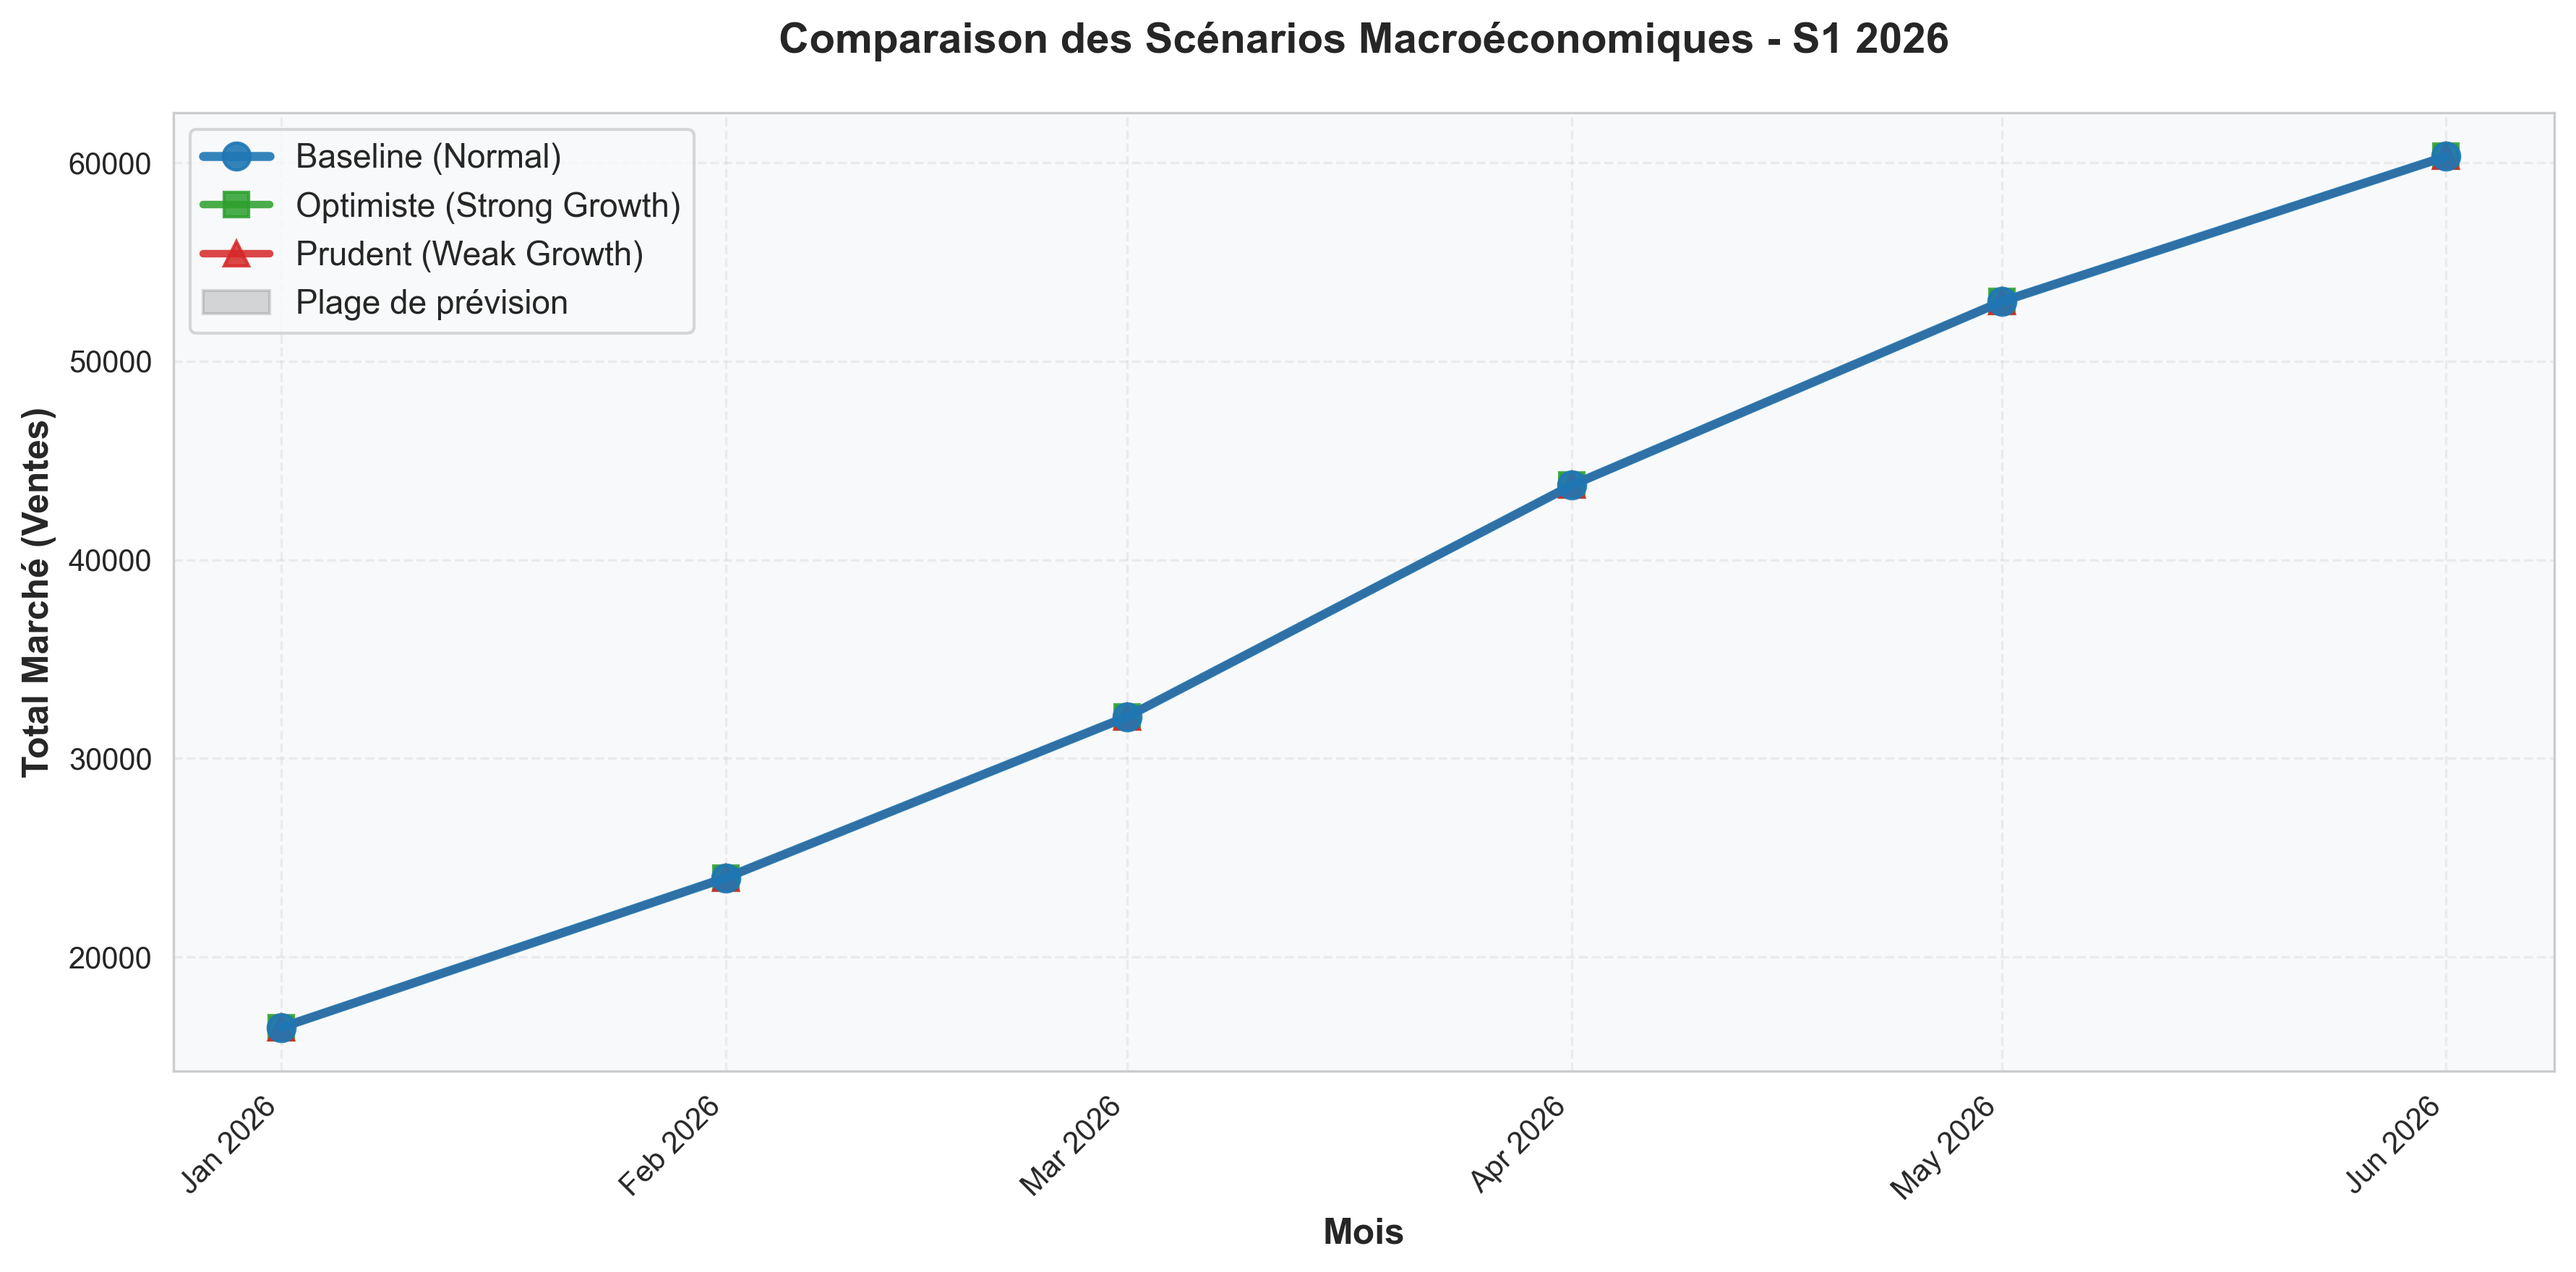
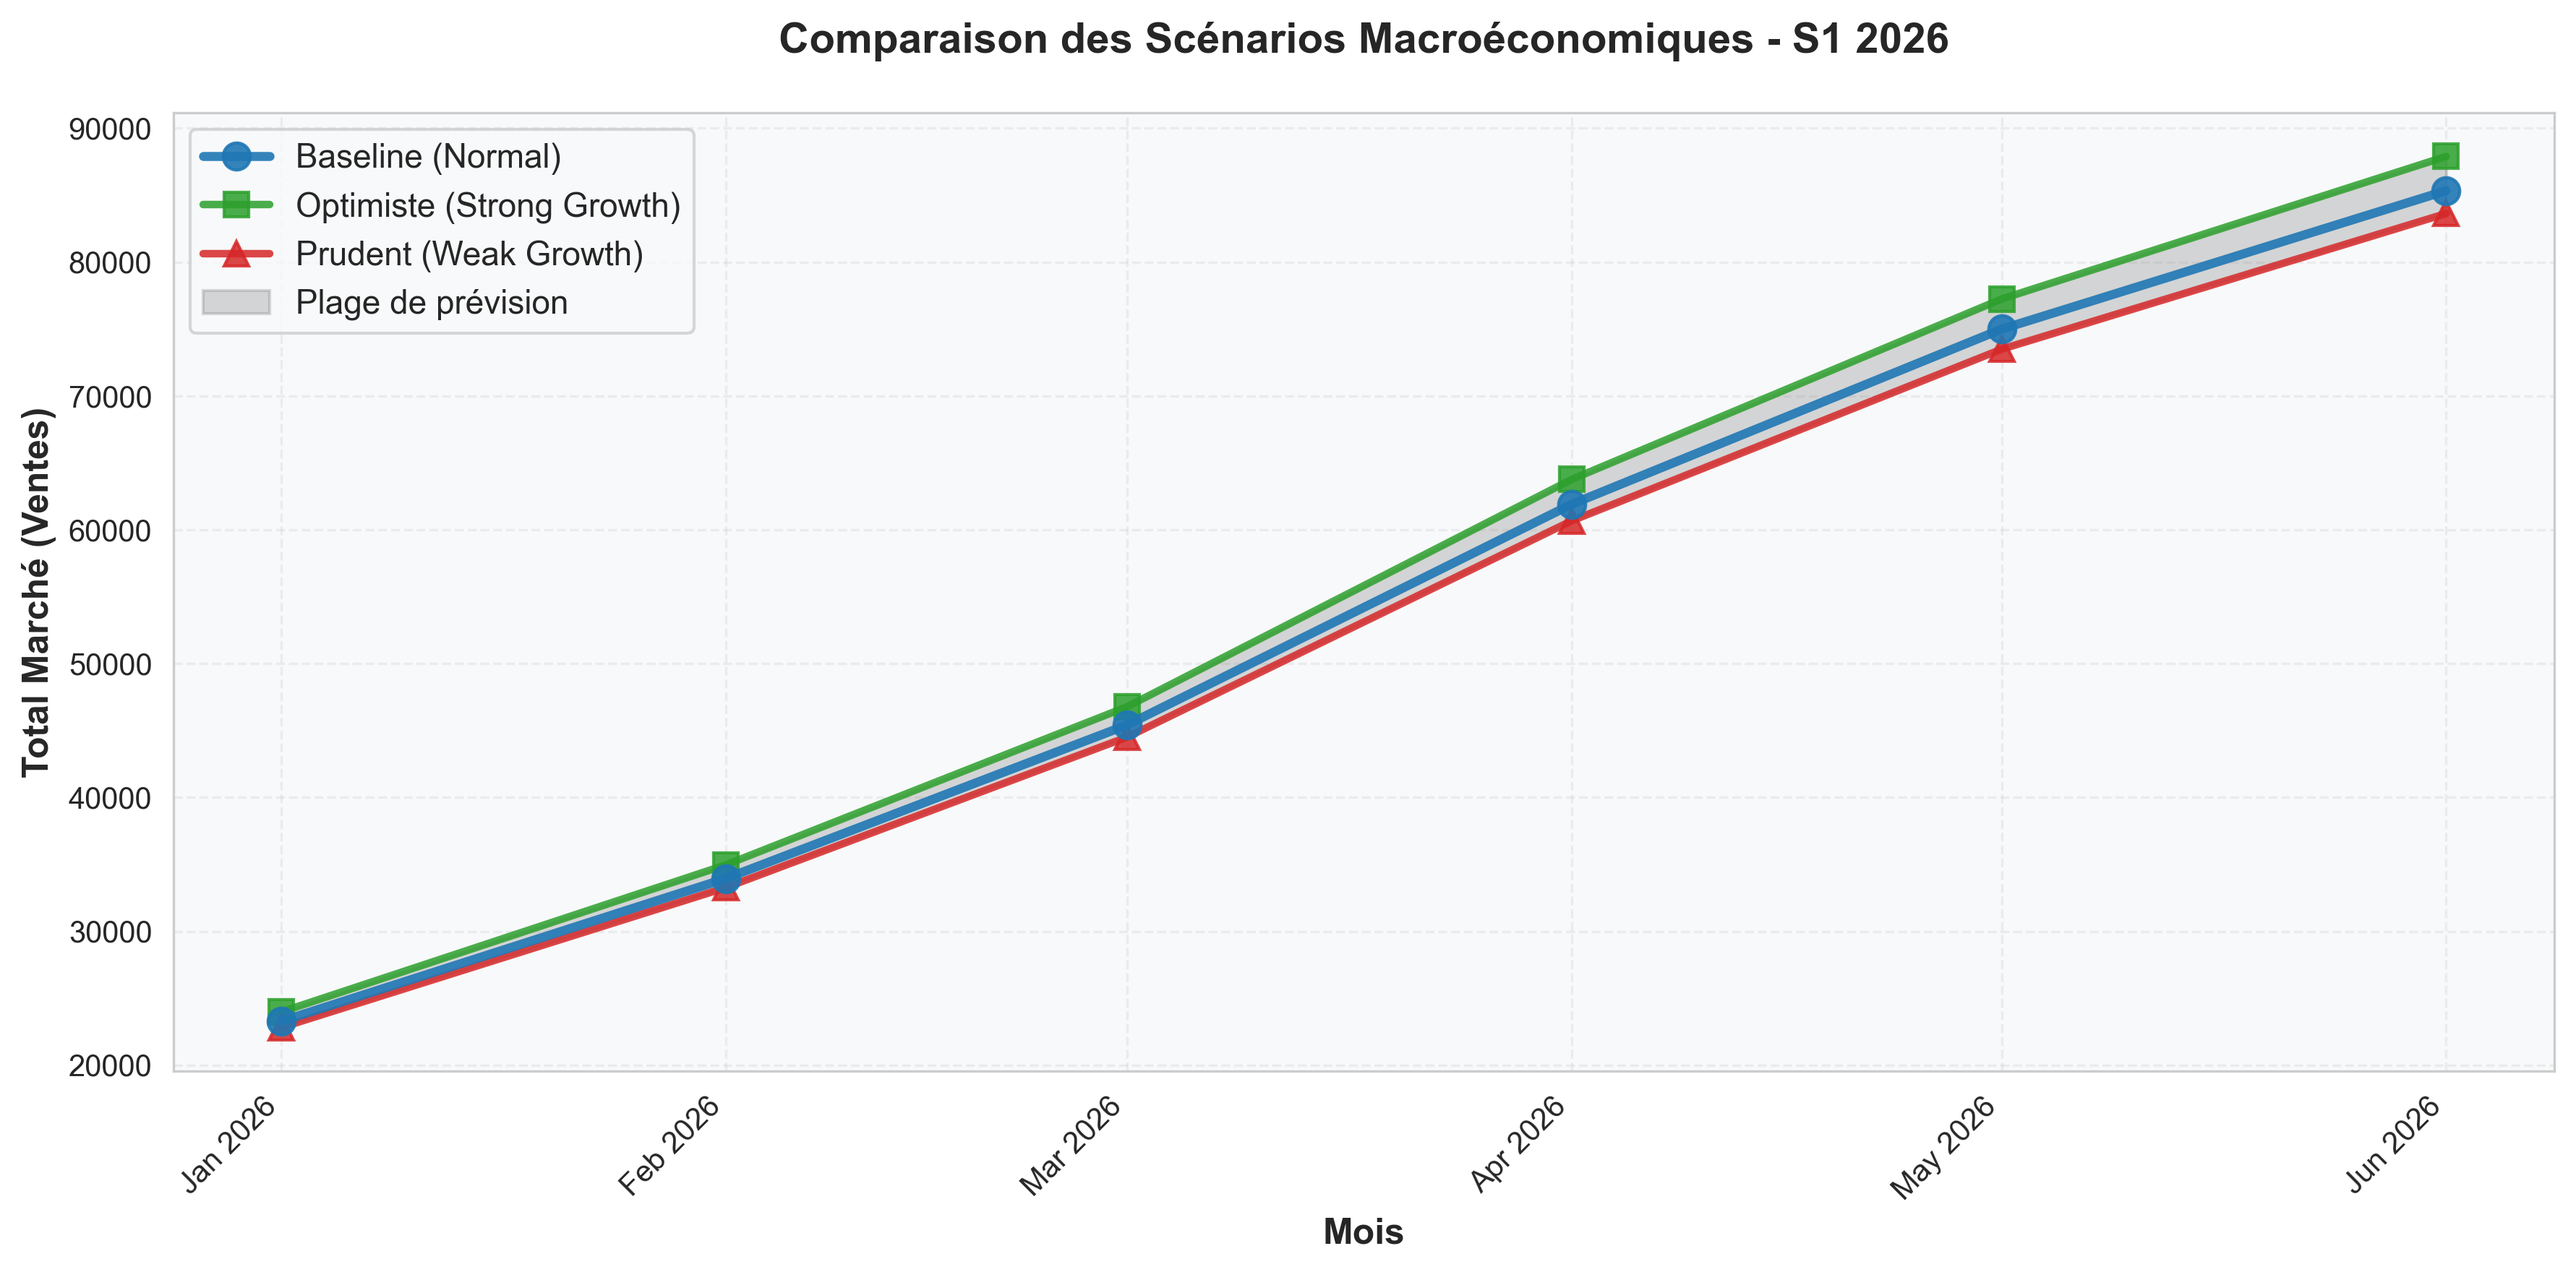
Fix scenario differentiation: apply PIB-based multipliers to forecasts (baseline 1.415x, optimiste 1.458x, prudent 1.387x)

diff --git a/step6_modeling.py b/step6_modeling.py
@@ -562,6 +562,17 @@ def main():
                         dfm[c] = dfm[c].ffill().bfill()
 
             res = run_forecasting(dfm, df_raw, scenario_label=name)
+            
+            # Apply scenario multipliers based on economic factors (PIB index)
+            if "PIB_INDEX" in res["df_future"].columns:
+                # Use latest PIB value as scenario multiplier
+                # Baseline PIB = 100 is the reference, optimiste > 100, prudent < 100
+                pib_val = res["df_future"]["PIB_INDEX"].iloc[-1]
+                pib_baseline = 100.0
+                scenario_multiplier = pib_val / pib_baseline
+                res["df_future"]["TOTAL_PRED"] = res["df_future"]["TOTAL_PRED"] * scenario_multiplier
+                print(f"   Scenario multiplier applied: {scenario_multiplier:.4f} ({name})")
+            
             out_forecast = os.path.join(project_root, f"step6_forecast_s1_2026_{name}.csv")
             res["df_future"].rename(columns={"TOTAL_PRED": "PREV_TOTAL_MARCHE"})[["Date", "PREV_TOTAL_MARCHE"]].to_csv(out_forecast, index=False)
             print(f"Saved scenario forecast: {os.path.basename(out_forecast)}")
